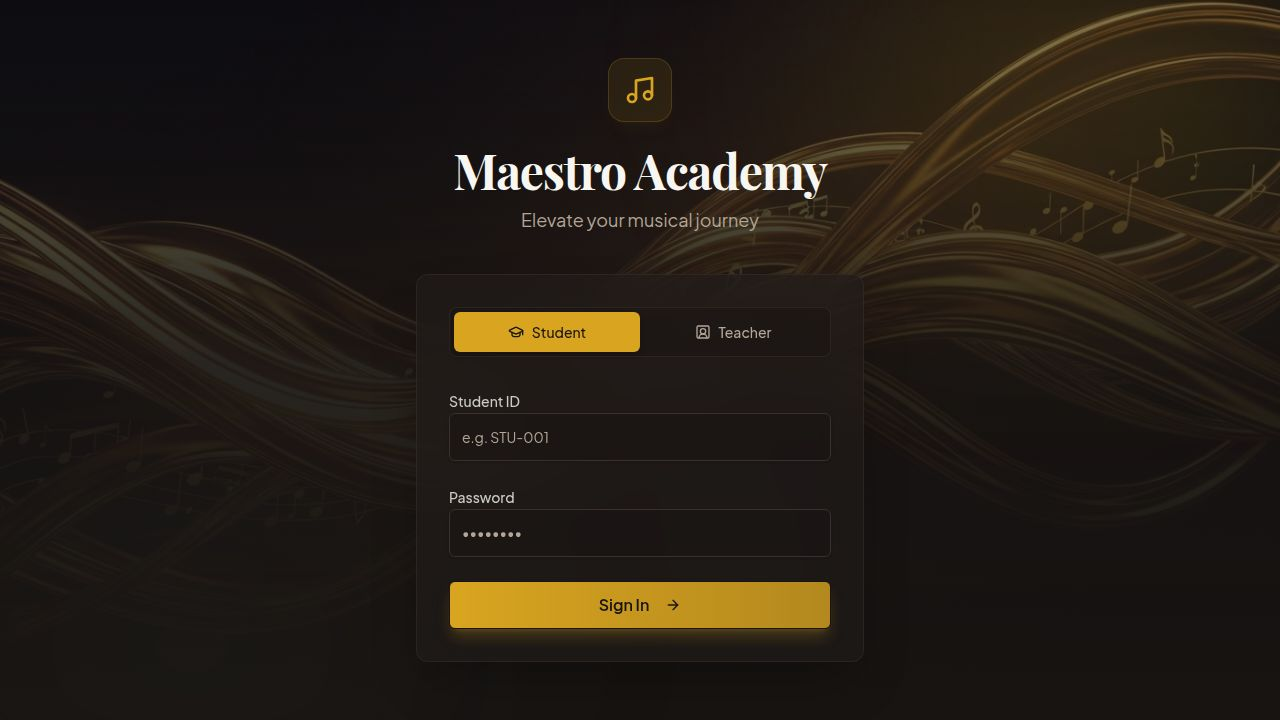
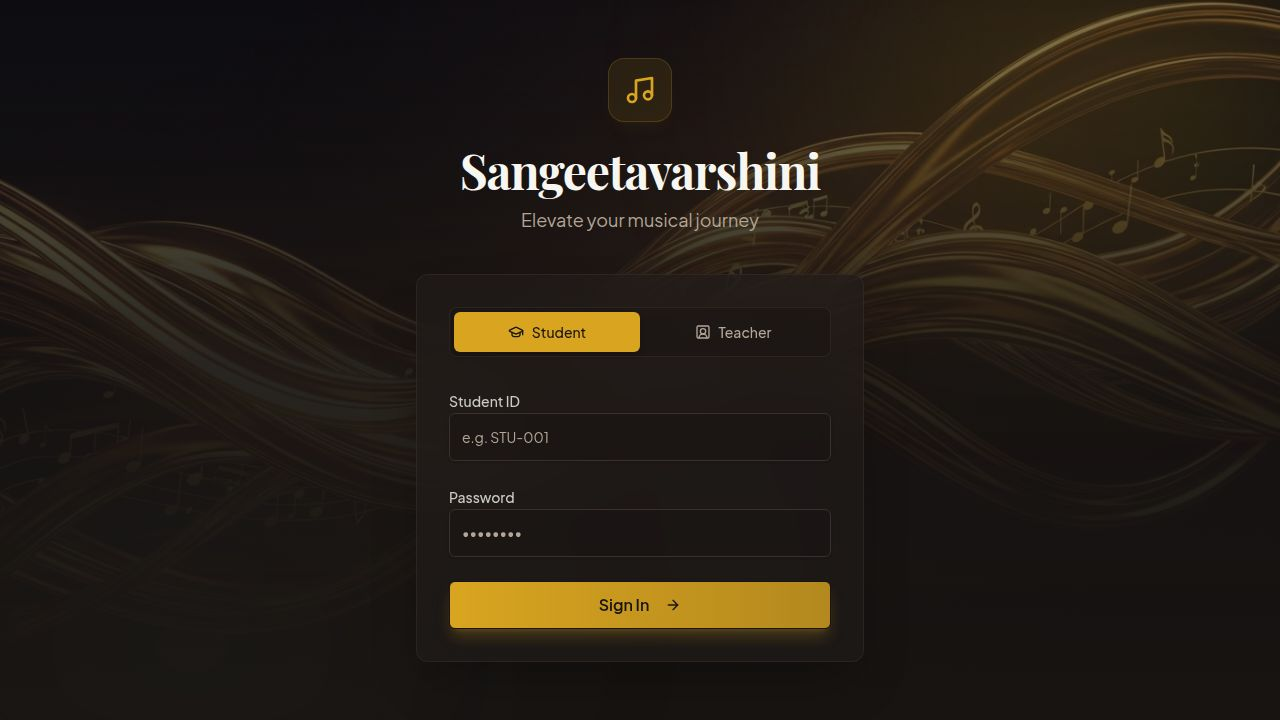
Update application branding and add new features for class management and notifications
Integrate new routes for class logs and updates, update app layout branding, and enable push notifications on login.

Replit-Commit-Author: Agent
Replit-Commit-Session-Id: e2b10beb-c1fc-4f59-adf5-b8bc7fa57a16
Replit-Commit-Checkpoint-Type: full_checkpoint
Replit-Commit-Event-Id: c90dab68-786a-4715-b2ea-5ebb2249506c
Replit-Commit-Screenshot-Url: https://storage.googleapis.com/screenshot-production-us-central1/2cca0614-38fe-40b3-a31d-ca5e45d1d8d5/e2b10beb-c1fc-4f59-adf5-b8bc7fa57a16/QoupOK5
Replit-Helium-Checkpoint-Created: true

Changed region(s): [[0.3438, 0.2139, 0.6562, 0.275]]

diff --git a/artifacts/music-school/src/pages/teacher/classes.tsx b/artifacts/music-school/src/pages/teacher/classes.tsx
@@ -1,4 +1,4 @@
-import { useState } from "react";
+import { useState, useEffect } from "react";
 import { format } from "date-fns";
 import { useForm } from "react-hook-form";
 import { zodResolver } from "@hookform/resolvers/zod";
@@ -18,6 +18,10 @@ import { Select, SelectContent, SelectItem, SelectTrigger, SelectValue } from "@
 import { Link } from "wouter";
 import { ClassStatus } from "@workspace/api-client-react";
 
+const BASE = import.meta.env.BASE_URL;
+
+type Student = { id: number; studentId: string; name: string; instrument: string };
+
 const classSchema = z.object({
   title: z.string().min(1, "Title is required"),
   topic: z.string().min(1, "Topic is required"),
@@ -30,7 +34,15 @@ export default function TeacherClasses() {
   const { classes, createClass, deleteClass, updateClass } = useAppClasses();
   const [isDialogOpen, setIsDialogOpen] = useState(false);
   const [editingId, setEditingId] = useState<number | null>(null);
+  const [students, setStudents] = useState<Student[]>([]);
+  const [selectedStudentId, setSelectedStudentId] = useState<string>("all");
+  const [recurringType, setRecurringType] = useState<string>("none");
   const { toast } = useToast();
+
+  useEffect(() => {
+    fetch(`${BASE}api/students`, { credentials: "include" })
+      .then(r => r.json()).then(setStudents).catch(() => {});
+  }, []);
 
   const form = useForm<z.infer<typeof classSchema>>({
     resolver: zodResolver(classSchema),
@@ -40,23 +52,30 @@ export default function TeacherClasses() {
   const onSubmit = async (data: z.infer<typeof classSchema>) => {
     try {
       const isoDate = new Date(data.scheduledAt).toISOString();
+      const payload = {
+        ...data,
+        scheduledAt: isoDate,
+        studentId: selectedStudentId && selectedStudentId !== "all" ? parseInt(selectedStudentId) : null,
+        recurringType,
+      };
       if (editingId) {
-        await updateClass({ classId: editingId, data: { ...data, scheduledAt: isoDate } });
+        await updateClass({ classId: editingId, data: payload as any });
         toast({ title: "Class updated successfully" });
       } else {
-        await createClass({ data: { ...data, scheduledAt: isoDate } });
+        await createClass({ data: payload as any });
         toast({ title: "Class scheduled successfully" });
       }
       setIsDialogOpen(false);
       form.reset();
       setEditingId(null);
+      setSelectedStudentId("all");
+      setRecurringType("none");
     } catch (error) {
       toast({ title: "Error saving class", variant: "destructive" });
     }
   };
 
   const handleEdit = (c: any) => {
-    // format to datetime-local expected format: YYYY-MM-DDTHH:mm
     const dateStr = new Date(c.scheduledAt).toISOString().slice(0, 16);
     form.reset({
       title: c.title,
@@ -65,6 +84,8 @@ export default function TeacherClasses() {
       durationMinutes: c.durationMinutes,
       description: c.description || ""
     });
+    setSelectedStudentId(c.studentId ? String(c.studentId) : "all");
+    setRecurringType(c.recurringType || "none");
     setEditingId(c.id);
     setIsDialogOpen(true);
   };
@@ -72,6 +93,12 @@ export default function TeacherClasses() {
   const handleStatusChange = async (id: number, status: ClassStatus) => {
     await updateClass({ classId: id, data: { status } });
     toast({ title: `Status updated to ${status}` });
+  };
+
+  const getStudentName = (studentId: number | null) => {
+    if (!studentId) return null;
+    const s = students.find(s => s.id === studentId);
+    return s ? s.name : null;
   };
 
   return (
@@ -87,6 +114,8 @@ export default function TeacherClasses() {
           if (!open) {
             form.reset();
             setEditingId(null);
+            setSelectedStudentId("all");
+            setRecurringType("none");
           }
         }}>
           <DialogTrigger asChild>
@@ -94,7 +123,7 @@ export default function TeacherClasses() {
               <Plus className="w-4 h-4" /> Schedule Class
             </Button>
           </DialogTrigger>
-          <DialogContent className="sm:max-w-[500px]">
+          <DialogContent className="sm:max-w-[520px]">
             <DialogHeader>
               <DialogTitle>{editingId ? "Edit Class" : "Schedule New Class"}</DialogTitle>
             </DialogHeader>
@@ -104,6 +133,23 @@ export default function TeacherClasses() {
                 <Input placeholder="e.g. Advanced Piano Masterclass" {...form.register("title")} />
                 {form.formState.errors.title && <p className="text-xs text-destructive">{form.formState.errors.title.message}</p>}
               </div>
+
+              <div className="space-y-2">
+                <Label>For Student (optional — leave blank for all)</Label>
+                <Select value={selectedStudentId} onValueChange={setSelectedStudentId}>
+                  <SelectTrigger>
+                    <SelectValue placeholder="All students" />
+                  </SelectTrigger>
+                  <SelectContent>
+                    <SelectItem value="all">All Students</SelectItem>
+                    {students.map(s => (
+                      <SelectItem key={s.id} value={String(s.id)}>{s.name} ({s.studentId})</SelectItem>
+                    ))}
+                  </SelectContent>
+                </Select>
+                <p className="text-xs text-muted-foreground">If a student is selected, only they will see this class.</p>
+              </div>
+
               <div className="grid grid-cols-2 gap-4">
                 <div className="space-y-2">
                   <Label>Date & Time</Label>
@@ -114,6 +160,23 @@ export default function TeacherClasses() {
                   <Input type="number" {...form.register("durationMinutes")} />
                 </div>
               </div>
+
+              <div className="space-y-2">
+                <Label>Recurring</Label>
+                <Select value={recurringType} onValueChange={setRecurringType}>
+                  <SelectTrigger>
+                    <SelectValue />
+                  </SelectTrigger>
+                  <SelectContent>
+                    <SelectItem value="none">Does not repeat</SelectItem>
+                    <SelectItem value="daily">Daily</SelectItem>
+                    <SelectItem value="weekly">Weekly</SelectItem>
+                    <SelectItem value="biweekly">Every 2 weeks</SelectItem>
+                    <SelectItem value="monthly">Monthly</SelectItem>
+                  </SelectContent>
+                </Select>
+              </div>
+
               <div className="space-y-2">
                 <Label>Instrument / Topic</Label>
                 <Input placeholder="e.g. Piano - Jazz Improvisation" {...form.register("topic")} />
@@ -144,7 +207,6 @@ export default function TeacherClasses() {
               {c.status === 'completed' && <div className="absolute top-0 left-0 w-1 h-full bg-green-500" />}
               <CardContent className="p-0">
                 <div className="flex flex-col md:flex-row md:items-center p-6 gap-6">
-                  {/* Time Box */}
                   <div className="flex flex-row md:flex-col items-center md:items-start gap-3 md:gap-0 min-w-[120px]">
                     <div className="text-sm font-medium text-primary">
                       {format(new Date(c.scheduledAt), "MMM d, yyyy")}
@@ -157,17 +219,26 @@ export default function TeacherClasses() {
                     </div>
                   </div>
 
-                  {/* Divider hidden on mobile */}
                   <div className="hidden md:block w-px h-16 bg-border/50 mx-2" />
 
-                  {/* Info */}
                   <div className="flex-1">
                     <h3 className="text-xl font-bold text-foreground">{c.title}</h3>
                     <p className="text-sm text-muted-foreground font-medium mt-1">{c.topic}</p>
                     {c.description && <p className="text-sm text-muted-foreground mt-2 line-clamp-1">{c.description}</p>}
+                    <div className="flex items-center gap-2 mt-2 flex-wrap">
+                      {(c as any).studentId && (
+                        <span className="text-xs bg-primary/10 text-primary px-2 py-0.5 rounded-full">
+                          {getStudentName((c as any).studentId) || "Student only"}
+                        </span>
+                      )}
+                      {(c as any).recurringType && (c as any).recurringType !== "none" && (
+                        <span className="text-xs bg-secondary text-muted-foreground px-2 py-0.5 rounded-full capitalize">
+                          {(c as any).recurringType}
+                        </span>
+                      )}
+                    </div>
                   </div>
 
-                  {/* Actions */}
                   <div className="flex items-center gap-3 w-full md:w-auto justify-end">
                     <div className="mr-auto md:mr-4">
                       <Select 

diff --git a/artifacts/music-school/src/components/layout/app-layout.tsx b/artifacts/music-school/src/components/layout/app-layout.tsx
@@ -7,8 +7,9 @@ import {
   CalendarDays, 
   Bell, 
   LogOut,
-  Video,
-  KeyRound
+  KeyRound,
+  ClipboardList,
+  Megaphone
 } from "lucide-react";
 import { useAppAuth } from "@/hooks/use-app-auth";
 import { Button } from "@/components/ui/button";
@@ -29,10 +30,14 @@ export function AppLayout({ children }: AppLayoutProps) {
     { name: "Dashboard", href: basePath, icon: LayoutDashboard },
     { name: "My Students", href: `${basePath}/students`, icon: Users },
     { name: "Schedule", href: `${basePath}/classes`, icon: CalendarDays },
+    { name: "Class Logs", href: `${basePath}/class-logs`, icon: ClipboardList },
+    { name: "Updates", href: `${basePath}/updates`, icon: Megaphone },
     { name: "Announcements", href: `${basePath}/announcements`, icon: Bell },
   ] : [
     { name: "Dashboard", href: basePath, icon: LayoutDashboard },
     { name: "My Classes", href: `${basePath}/classes`, icon: CalendarDays },
+    { name: "Class Logs", href: `${basePath}/class-logs`, icon: ClipboardList },
+    { name: "Updates", href: `${basePath}/updates`, icon: Megaphone },
     { name: "Announcements", href: `${basePath}/announcements`, icon: Bell },
     { name: "My Account", href: `${basePath}/account`, icon: KeyRound },
   ];
@@ -42,16 +47,16 @@ export function AppLayout({ children }: AppLayoutProps) {
       {/* Sidebar */}
       <aside className="w-full md:w-64 bg-card border-r border-border/50 flex flex-col shrink-0 relative z-20">
         <div className="p-6 pb-2">
-          <h1 className="text-2xl font-display font-bold text-primary flex items-center gap-2">
-            <span className="w-8 h-8 rounded-full bg-primary/20 flex items-center justify-center border border-primary/50">
-              <span className="text-primary text-sm">M</span>
+          <h1 className="text-xl font-display font-bold text-primary flex items-center gap-2">
+            <span className="w-8 h-8 rounded-full bg-primary/20 flex items-center justify-center border border-primary/50 shrink-0">
+              <span className="text-primary text-sm">S</span>
             </span>
-            Maestro
+            Sangeetavarshini
           </h1>
           <p className="text-xs text-muted-foreground mt-1 tracking-wide uppercase">Music Academy</p>
         </div>
 
-        <nav className="flex-1 px-4 py-6 space-y-2">
+        <nav className="flex-1 px-4 py-6 space-y-1">
           {navItems.map((item) => {
             const isActive = location === item.href || (location.startsWith(item.href) && item.href !== basePath);
             return (
@@ -71,7 +76,7 @@ export function AppLayout({ children }: AppLayoutProps) {
                     />
                   )}
                   <item.icon className={cn("w-5 h-5 relative z-10 transition-colors", isActive ? "text-primary" : "group-hover:text-primary")} />
-                  <span className="relative z-10">{item.name}</span>
+                  <span className="relative z-10 text-sm">{item.name}</span>
                 </div>
               </Link>
             );
@@ -96,7 +101,6 @@ export function AppLayout({ children }: AppLayoutProps) {
 
       {/* Main Content */}
       <main className="flex-1 max-w-[100vw] overflow-x-hidden relative">
-        {/* Subtle background glow effect */}
         <div className="absolute top-0 left-0 right-0 h-[500px] bg-gradient-to-b from-primary/5 to-transparent pointer-events-none -z-10" />
         
         <div className="p-6 md:p-8 lg:p-10 max-w-6xl mx-auto min-h-[calc(100vh-2rem)]">

diff --git a/artifacts/music-school/src/App.tsx b/artifacts/music-school/src/App.tsx
@@ -10,9 +10,13 @@ import TeacherDashboard from "@/pages/teacher/dashboard";
 import TeacherClasses from "@/pages/teacher/classes";
 import TeacherStudents from "@/pages/teacher/students";
 import TeacherAnnouncements from "@/pages/teacher/announcements";
+import TeacherClassLogs from "@/pages/teacher/class-logs";
+import TeacherUpdates from "@/pages/teacher/updates";
 import StudentDashboard from "@/pages/student/dashboard";
 import StudentClasses from "@/pages/student/classes";
 import StudentAccount from "@/pages/student/account";
+import StudentClassLogs from "@/pages/student/class-logs";
+import StudentUpdates from "@/pages/student/updates";
 import Call from "@/pages/shared/call";
 
 import { useAppAuth } from "@/hooks/use-app-auth";
@@ -79,6 +83,12 @@ function Router() {
       <Route path="/teacher/announcements">
         <ProtectedRoute component={TeacherAnnouncements} allowedRole="teacher" />
       </Route>
+      <Route path="/teacher/class-logs">
+        <ProtectedRoute component={TeacherClassLogs} allowedRole="teacher" />
+      </Route>
+      <Route path="/teacher/updates">
+        <ProtectedRoute component={TeacherUpdates} allowedRole="teacher" />
+      </Route>
 
       {/* Student Routes */}
       <Route path="/student">
@@ -91,7 +101,13 @@ function Router() {
         <ProtectedRoute component={StudentAccount} allowedRole="student" />
       </Route>
       <Route path="/student/announcements">
-        <ProtectedRoute component={TeacherAnnouncements} /> {/* Reuse UI but logic restricts actions via API */}
+        <ProtectedRoute component={TeacherAnnouncements} />
+      </Route>
+      <Route path="/student/class-logs">
+        <ProtectedRoute component={StudentClassLogs} allowedRole="student" />
+      </Route>
+      <Route path="/student/updates">
+        <ProtectedRoute component={StudentUpdates} allowedRole="student" />
       </Route>
 
       {/* Shared Routes */}

diff --git a/artifacts/music-school/src/hooks/use-app-auth.ts b/artifacts/music-school/src/hooks/use-app-auth.ts
@@ -1,4 +1,5 @@
 import { useQuery, useQueryClient, useMutation } from "@tanstack/react-query";
+import { registerPushNotifications } from "@/hooks/use-push-notifications";
 
 const AUTH_QUERY_KEY = ["auth", "me"];
 
@@ -41,6 +42,7 @@ export function useAppAuth() {
     },
     onSuccess: (data) => {
       queryClient.setQueryData(AUTH_QUERY_KEY, data);
+      registerPushNotifications().catch(() => {});
     },
   });
 

diff --git a/artifacts/music-school/src/pages/login.tsx b/artifacts/music-school/src/pages/login.tsx
@@ -72,7 +72,7 @@ export default function Login() {
               <Music className="w-8 h-8 text-primary" />
             </div>
             <h1 className="text-4xl md:text-5xl font-display font-bold text-foreground mb-3">
-              Maestro Academy
+              Sangeetavarshini
             </h1>
             <p className="text-muted-foreground text-lg">
               Elevate your musical journey